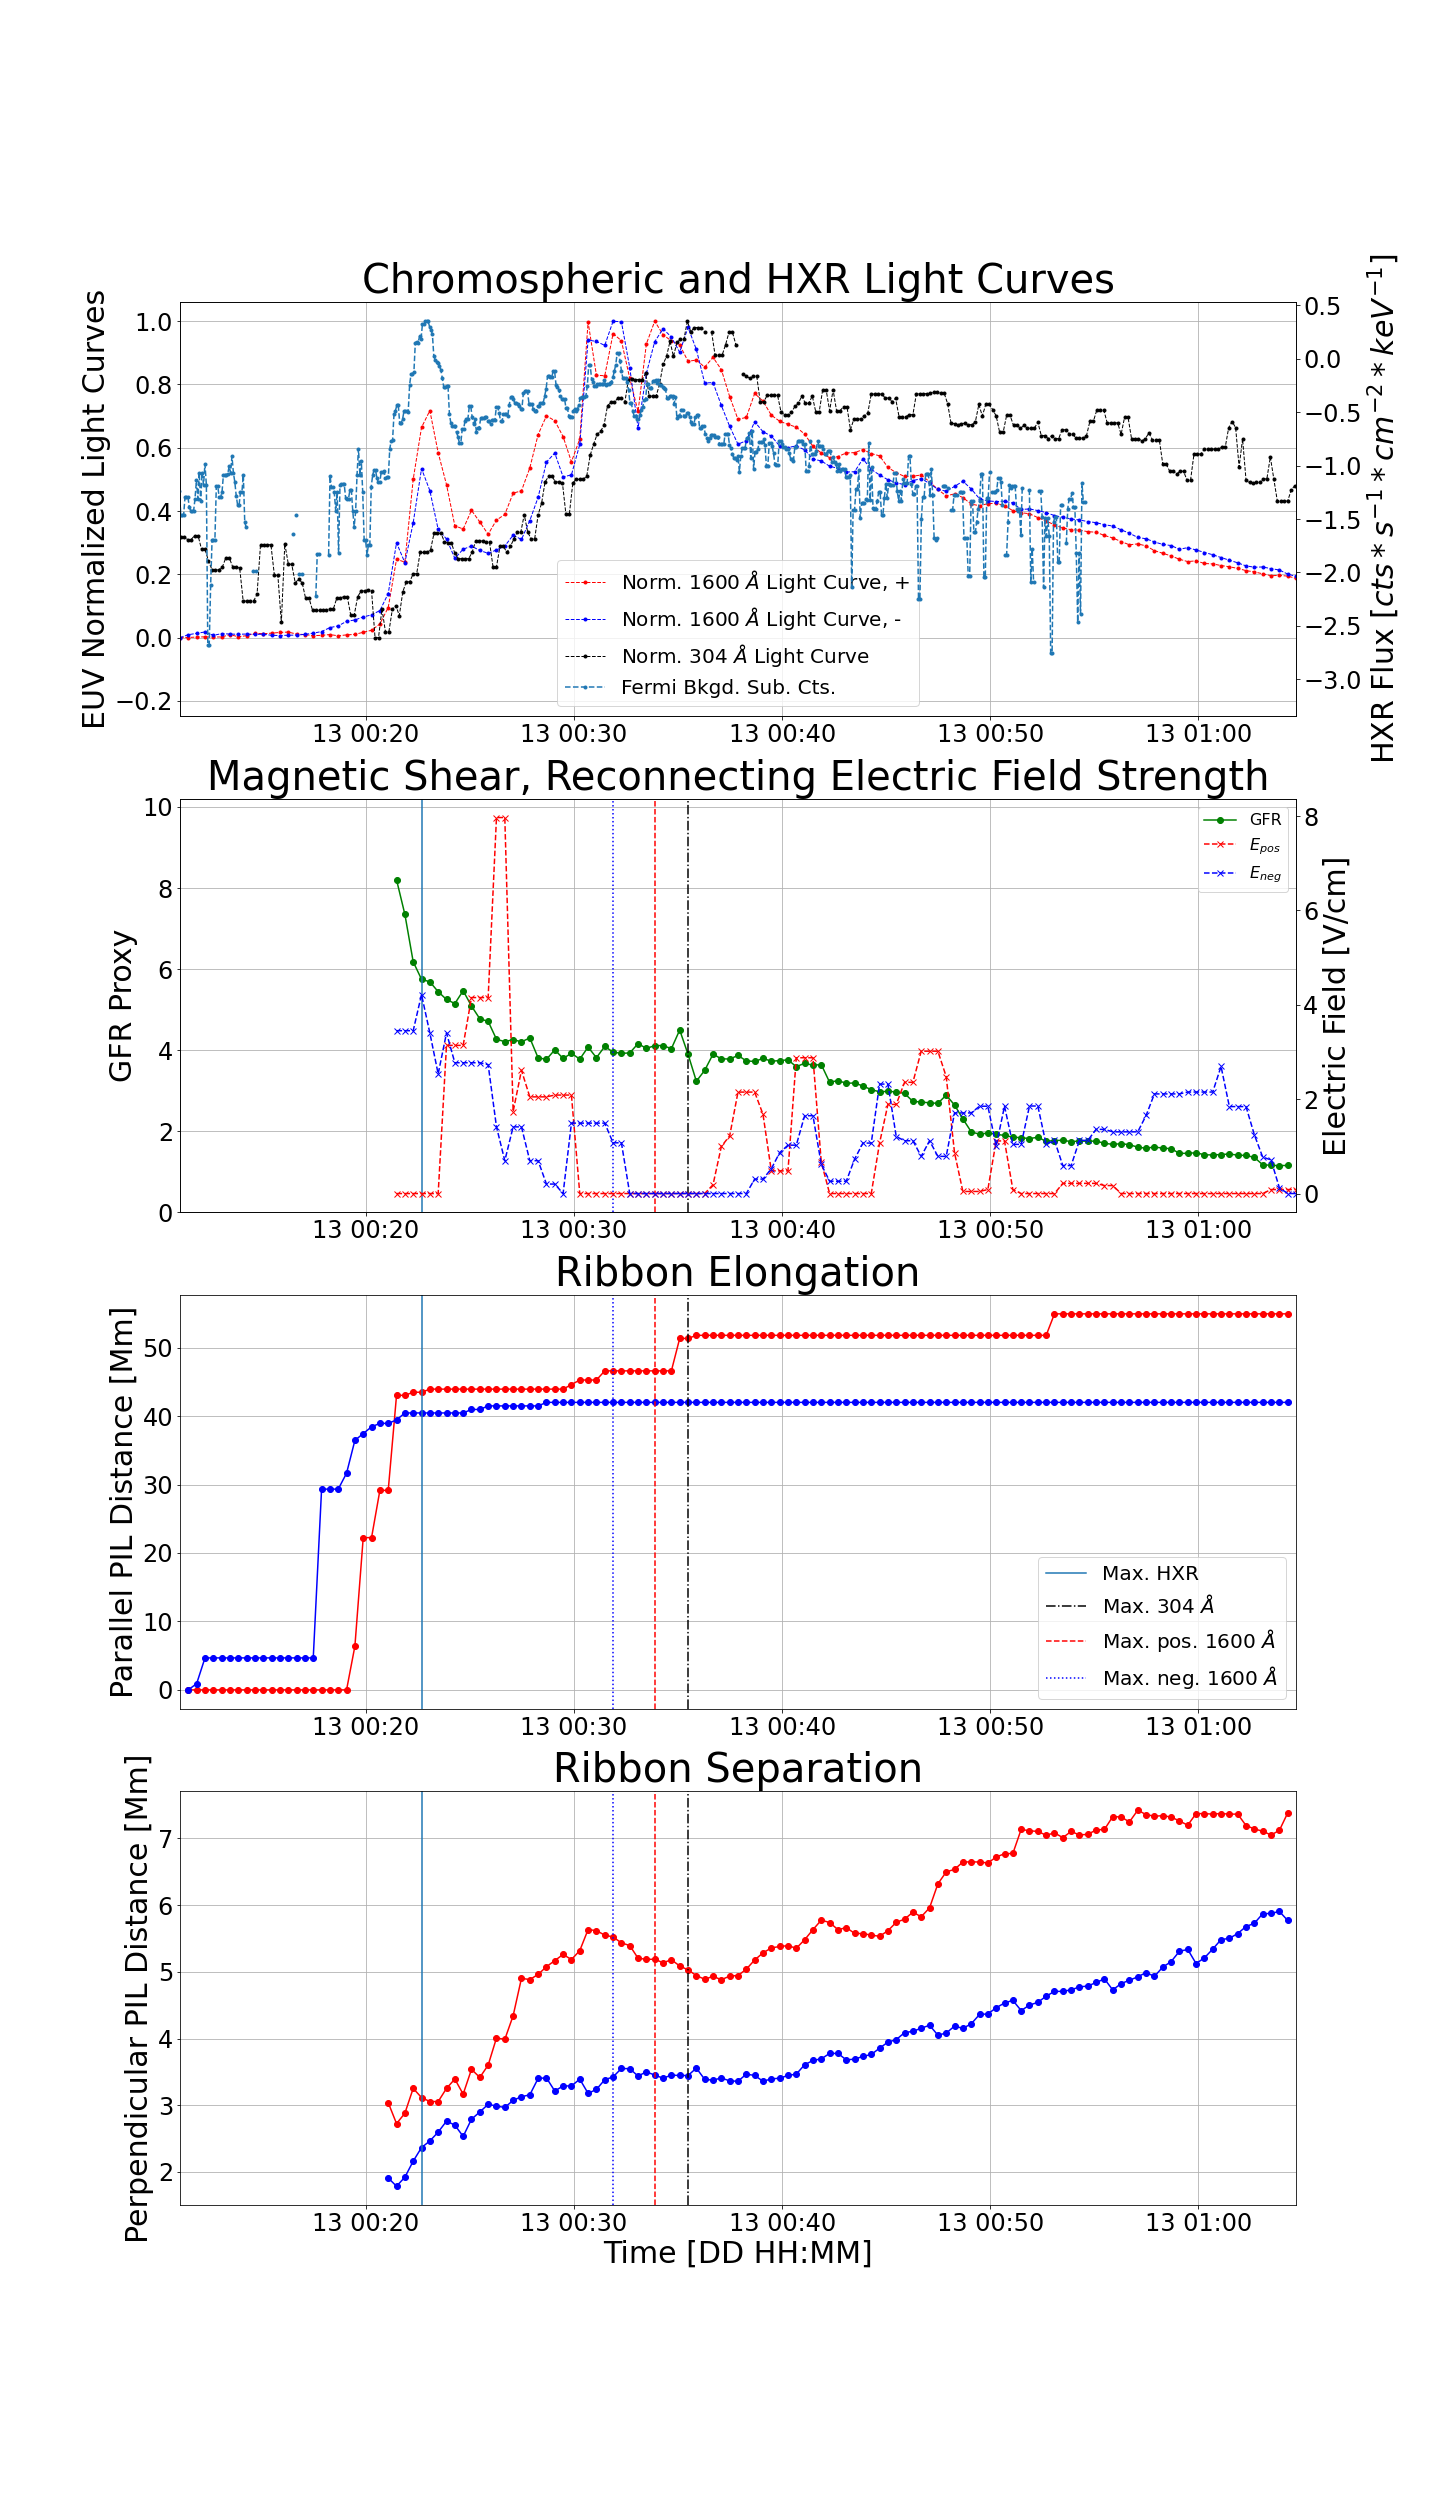
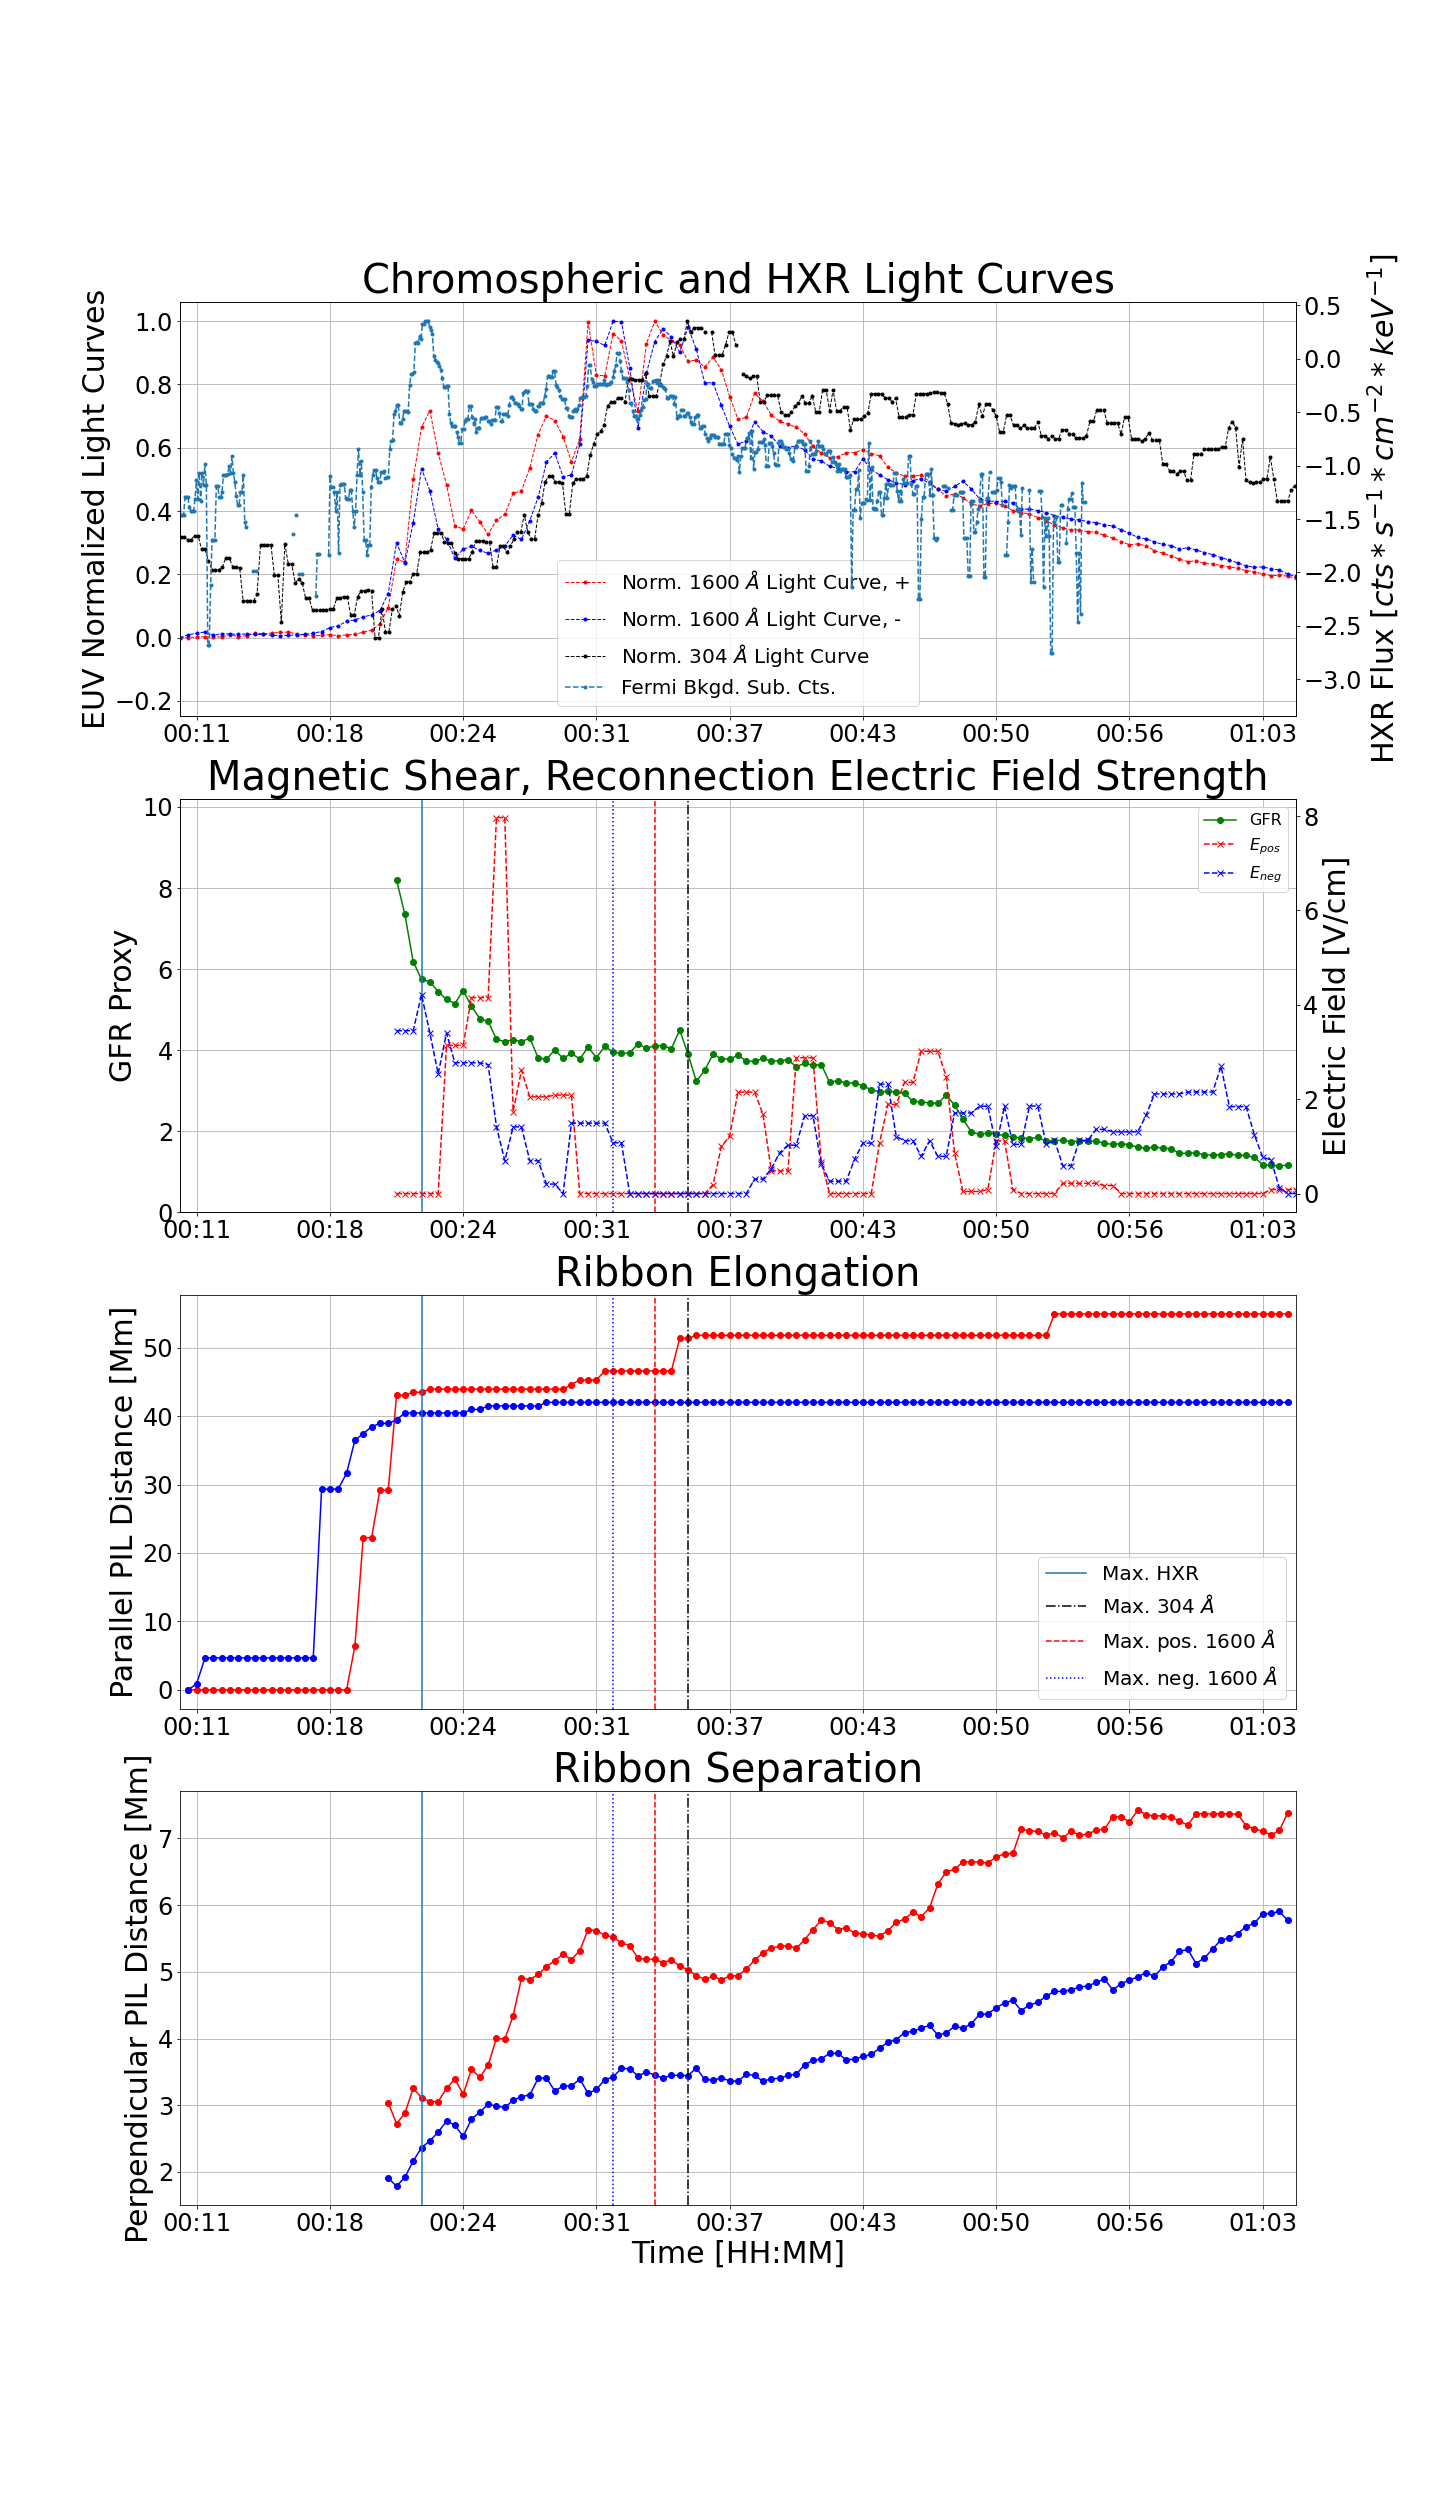
code for mid2 axis change

diff --git a/mid2_process.py b/mid2_process.py
@@ -318,7 +318,7 @@ fl_funcs.plt_fourpanel(times, right_gfr, left_gfr, flnum, dt1600, time304,
                   s304, e304, pos1600, neg1600, dn1600, indstrt_elon, 
                   indstrt_sep, fermitimes, raw_hxr_sum, cspec_hxr_sum,
                   gfr_trans,  E_pos, E_neg, time_E, 
-                  low_hxr=15500, high_hxr=16500,  period_flag = 0)
+                  low_hxr=15500, high_hxr=16500,  period_flag = 0, tick_space = 8)
 
 file='mid2shear'
 

diff --git a/low1_process.py b/low1_process.py
@@ -306,7 +306,7 @@ fl_funcs.plt_fourpanel(times, right_gfr, left_gfr, flnum, dt1600, time304,
                   s304, e304, pos1600, neg1600, dn1600, indstrt_elon, 
                   indstrt_sep, fermitimes, raw_hxr_sum, cspec_hxr_sum,
                   gfr_trans, E_pos, E_neg, time_E,
-                  low_hxr=0, high_hxr=800,  period_flag = 0)
+                  low_hxr=0, high_hxr=800,  period_flag = 0, tick_space = 16)
 
 file='low1shear'
 
